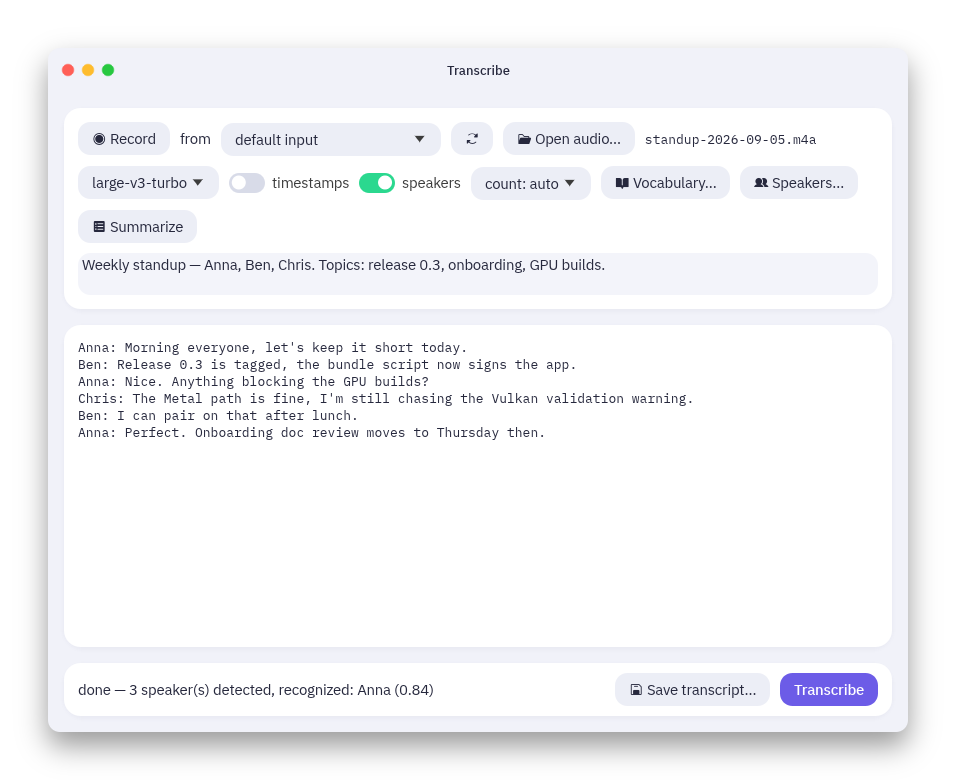
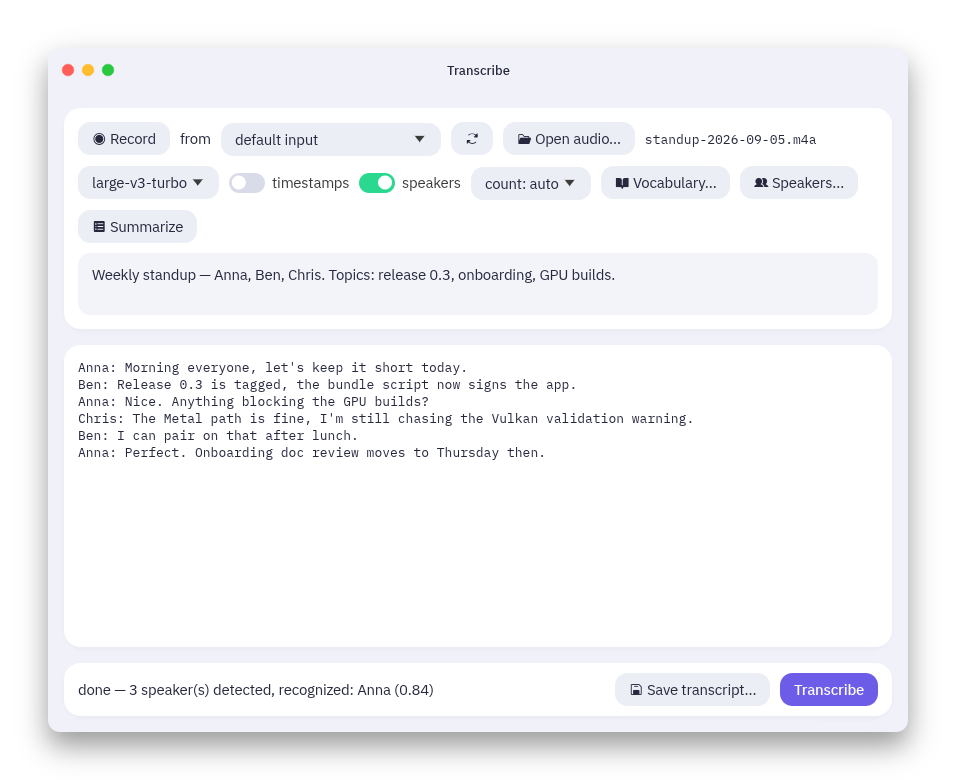
Give the context box the same padding as the transcript card
Claude-Session: https://claude.ai/code/session_01BGQx1DyoMX4zExfvgENncS

Changed region(s): [[0.0607, 0.4308, 0.728, 0.5846], [0.091, 0.3385, 0.637, 0.3692]]

diff --git a/src/bin/transcribe-gui.rs b/src/bin/transcribe-gui.rs
@@ -1084,6 +1084,8 @@ impl eframe::App for App {
                 egui::TextEdit::multiline(&mut self.context)
                     .desired_rows(2)
                     .desired_width(f32::INFINITY)
+                    // Same breathing room as the transcript card.
+                    .margin(egui::Margin::symmetric(14, 12))
                     .hint_text(
                         "context for this recording — meeting name, speakers, topics, notes \
                          (sent to the transcription along with the vocabulary)",
